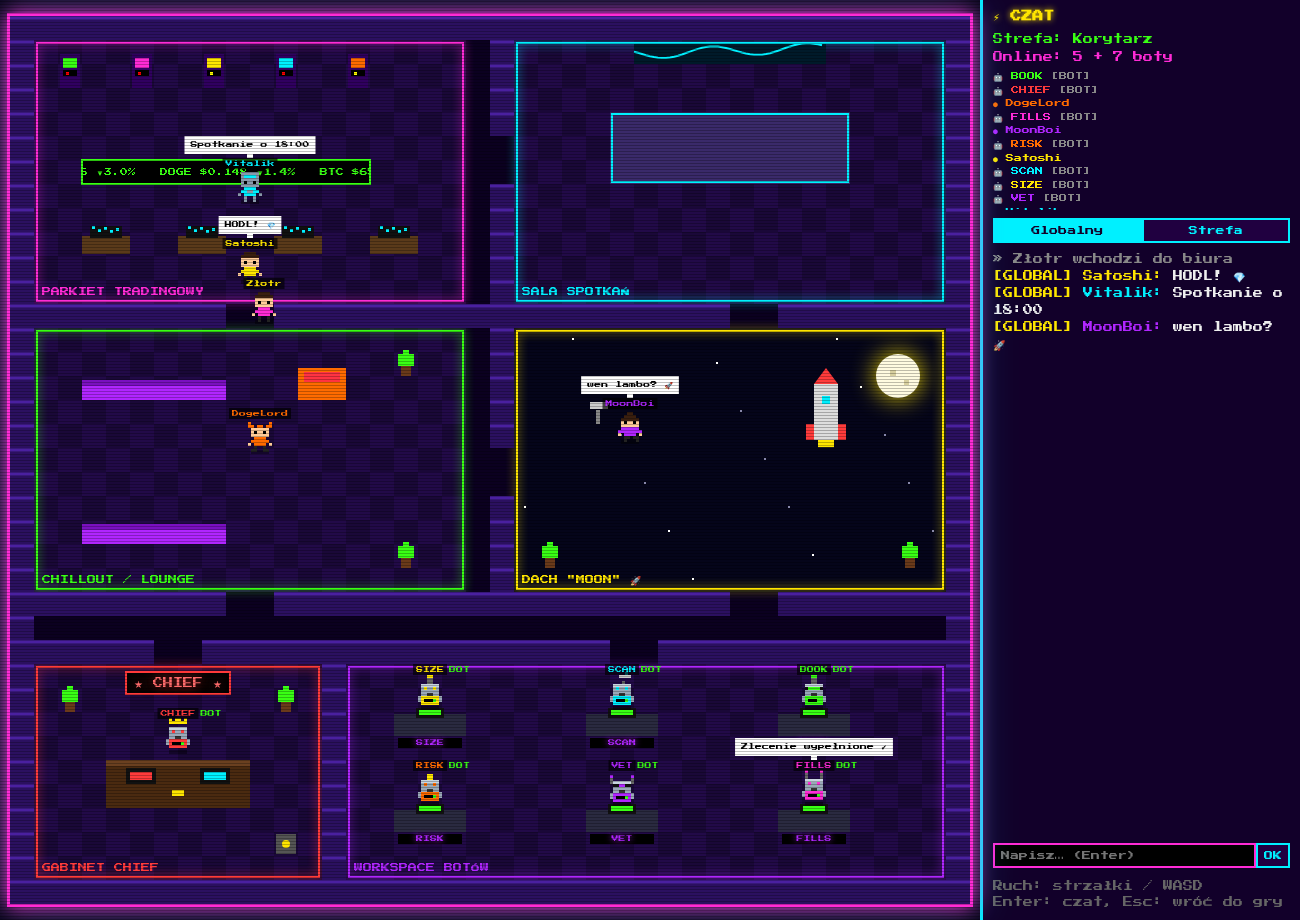
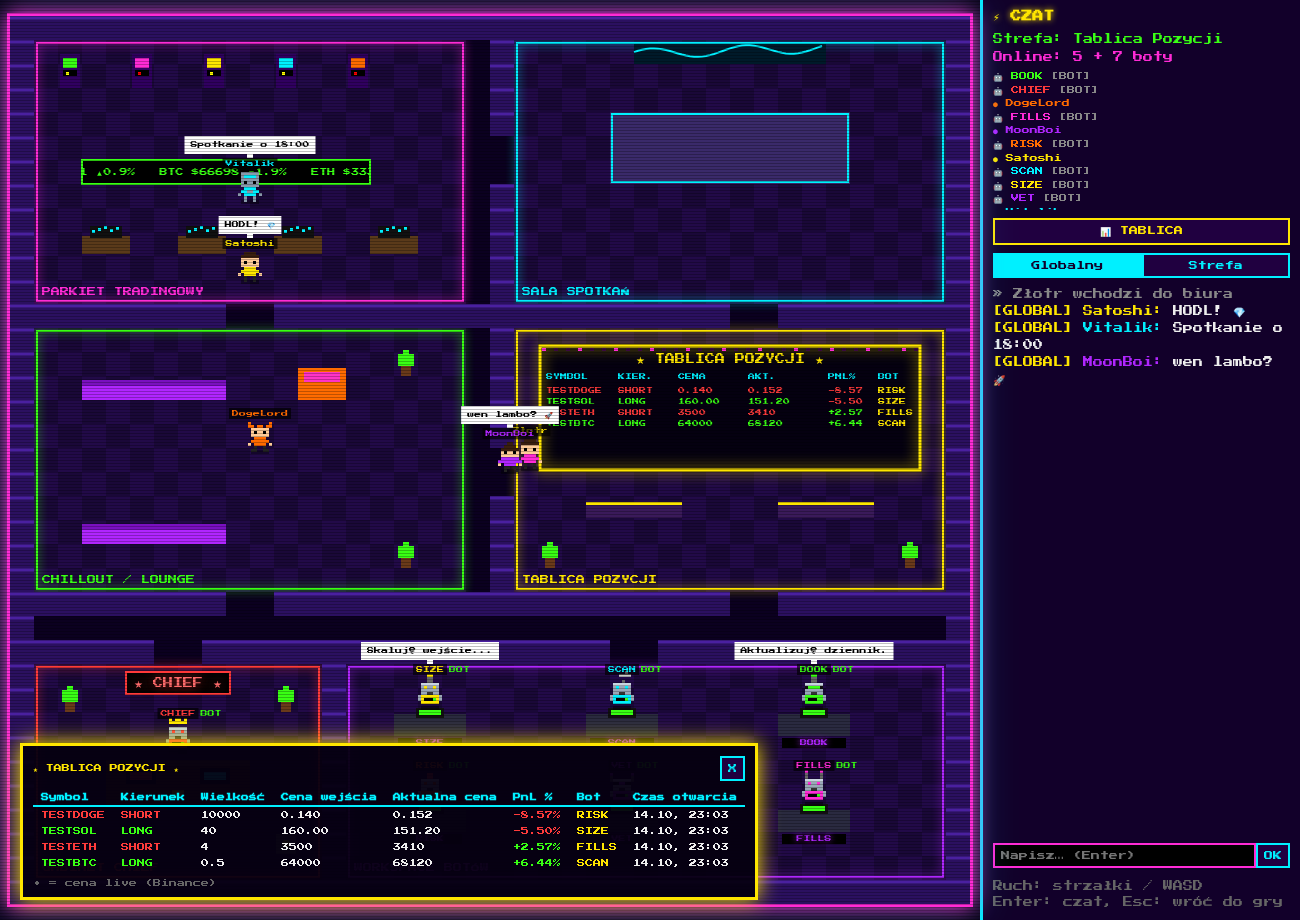
Tablica Pozycji zamiast Moon + API dla botów, live ceny, persystencja

diff --git a/public/game.js b/public/game.js
@@ -68,11 +68,9 @@ function update(dt){const p=players[me];if(!p)return;const sp=140*dt;let dx=0,dy
 const prices={BTC:68000,ETH:3400,SOL:150,DOGE:0.15};
 function drawMap(t){ctx.fillStyle='#0b0020';ctx.fillRect(0,0,cv.width,cv.height);
  for(const z of ZONES){for(let y=z.y;y<z.y+z.h;y++)for(let x=z.x;x<z.x+z.w;x++){
-   if(z.id=='moon'){ctx.fillStyle='#05051a';ctx.fillRect(x*T,y*T,T,T);if((x*7+y*13)%11==0){ctx.fillStyle=(Math.sin(t/300+x)>0)?'#fff':'#88a';ctx.fillRect(x*T+10,y*T+10,2,2);}}
-   else{ctx.fillStyle=(x+y)%2?'#1a0838':'#220a48';ctx.fillRect(x*T,y*T,T,T);}}
+   ctx.fillStyle=(x+y)%2?'#1a0838':'#220a48';ctx.fillRect(x*T,y*T,T,T);}
   ctx.strokeStyle=z.color;ctx.lineWidth=2;ctx.shadowColor=z.color;ctx.shadowBlur=10;ctx.strokeRect(z.x*T+3,z.y*T+3,z.w*T-6,z.h*T-6);ctx.shadowBlur=0;
   ctx.fillStyle=z.color;ctx.font='9px "Press Start 2P"';ctx.fillText(z.name.toUpperCase(),z.x*T+8,(z.y+z.h)*T-8);}
- if(true){ctx.fillStyle='#fffbe0';ctx.shadowColor='#ffe600';ctx.shadowBlur=25;ctx.beginPath();ctx.arc(37*T,15*T,22,0,7);ctx.fill();ctx.shadowBlur=0;ctx.fillStyle='#d8d0a0';ctx.fillRect(37*T-8,15*T-6,6,6);ctx.fillRect(37*T+6,15*T+4,5,5);}
  for(let y=0;y<H;y++)for(let x=0;x<W;x++)if(MAP.solid[y][x]&&!furniture.some(f=>x>=f.x&&x<f.x+f.w&&y>=f.y&&y<f.y+f.h)){ctx.fillStyle='#2b1060';ctx.fillRect(x*T,y*T,T,T);ctx.fillStyle='#4a20a0';ctx.fillRect(x*T,y*T,T,4);}
  for(const f of furniture){const X=f.x*T,Y=f.y*T,w=f.w*T,h=f.h*T;
   switch(f.type){
@@ -88,14 +86,36 @@ function drawMap(t){ctx.fillStyle='#0b0020';ctx.fillRect(0,0,cv.width,cv.height)
   case 'sofa':ctx.fillStyle='#b026ff';ctx.fillRect(X,Y+4,w,h-4);ctx.fillStyle='#7a10c0';ctx.fillRect(X,Y+4,w,6);break;
   case 'plant':ctx.fillStyle='#6a3a1a';ctx.fillRect(X+7,Y+14,10,10);ctx.fillStyle='#39ff14';ctx.fillRect(X+4,Y+2,16,12);ctx.fillRect(X+9,Y-2,6,4);break;
   case 'jukebox':ctx.fillStyle='#ff6b00';ctx.fillRect(X,Y-8,w,h+8);ctx.fillStyle=`hsl(${t/10%360},100%,60%)`;ctx.fillRect(X+6,Y-4,w-12,10);break;
-  case 'rocket':ctx.fillStyle='#ddd';ctx.fillRect(X+12,Y+8,24,h-16);ctx.fillStyle='#ff3b3b';ctx.beginPath();ctx.moveTo(X+12,Y+8);ctx.lineTo(X+24,Y-8);ctx.lineTo(X+36,Y+8);ctx.fill();
    ctx.fillRect(X+4,Y+h-24,8,16);ctx.fillRect(X+36,Y+h-24,8,16);ctx.fillStyle='#00f0ff';ctx.fillRect(X+20,Y+20,8,8);ctx.fillStyle=Math.random()>.5?'#ffe600':'#ff6b00';ctx.fillRect(X+16,Y+h-8,16,6+Math.random()*6);break;
   case 'bigdesk':ctx.fillStyle='#4a2a10';ctx.fillRect(X,Y,w,h);ctx.fillStyle='#6a4020';ctx.fillRect(X,Y,w,6);ctx.fillStyle='#111';ctx.fillRect(X+20,Y+8,30,16);ctx.fillRect(X+w-50,Y+8,30,16);
    ctx.fillStyle='#ff3b3b';ctx.fillRect(X+24,Y+12,22,8);ctx.fillStyle='#00f0ff';ctx.fillRect(X+w-46,Y+12,22,8);ctx.fillStyle='#ffe600';ctx.fillRect(X+w/2-6,Y+30,12,6);break;
   case 'safe':ctx.fillStyle='#555';ctx.fillRect(X+2,Y+2,20,20);ctx.fillStyle='#ffe600';ctx.beginPath();ctx.arc(X+12,Y+12,4,0,7);ctx.fill();break;
   case 'botdesk':ctx.fillStyle='#2a2a40';ctx.fillRect(X,Y+2,w,h-2);ctx.fillStyle='#111';ctx.fillRect(X+w/2-14,Y-4,28,10);ctx.fillStyle=(t/400+f.x|0)%2?'#39ff14':'#00f0ff';ctx.fillRect(X+w/2-11,Y-2,22,5);
    ctx.font='7px "Press Start 2P"';ctx.fillStyle='#000';ctx.fillRect(X+4,Y+h+2,w-8,10);ctx.fillStyle='#b026ff';ctx.shadowColor='#b026ff';ctx.shadowBlur=6;const lw=ctx.measureText(f.label).width;ctx.fillText(f.label,X+w/2-lw/2,Y+h+10);ctx.shadowBlur=0;break;
-  case 'telescope':ctx.fillStyle='#888';ctx.fillRect(X+10,Y+10,4,14);ctx.fillStyle='#ccc';ctx.fillRect(X+4,Y+2,18,7);break;}}}
+  case 'bench':ctx.fillStyle='#3a1a5a';ctx.fillRect(X,Y+6,w,h-8);ctx.fillStyle='#ffe600';ctx.fillRect(X,Y+6,w,3);break;
+  case 'scoreboard':drawScoreboard(X,Y,w,h,t);break;}}}
+function fmtP(v){v=+v;return v>=1000?v.toFixed(0):v>=1?v.toFixed(2):v.toPrecision(3);}
+function pnl(p){const c=p.price??p.entry;return (c-p.entry)/p.entry*100*(p.side=='LONG'?1:-1);}
+function drawScoreboard(X,Y,w,h,t){ctx.fillStyle='#050010';ctx.fillRect(X,Y-8,w,h+8);ctx.strokeStyle='#ffe600';ctx.lineWidth=3;ctx.shadowColor='#ffe600';ctx.shadowBlur=(t/700|0)%5?14:4;ctx.strokeRect(X+2,Y-6,w-4,h+4);ctx.shadowBlur=0;
+ for(let i=0;i<w;i+=12){ctx.fillStyle=((i/12+(t/200|0))%3==0)?'#ff2bd6':'#3a0a40';ctx.fillRect(X+i+4,Y-4,4,3);}
+ ctx.font='10px "Press Start 2P"';ctx.fillStyle='#ffe600';const tt='★ TABLICA POZYCJI ★';ctx.fillText(tt,X+w/2-ctx.measureText(tt).width/2,Y+12);
+ ctx.font='7px "Press Start 2P"';ctx.fillStyle='#00f0ff';const cols=[8,80,140,210,290,340];['SYMBOL','KIER.','CENA','AKT.','PNL%','BOT'].forEach((c,i)=>ctx.fillText(c,X+cols[i],Y+28));
+ const ps=Object.values(positions);if(!ps.length){ctx.fillStyle=(t/600|0)%2?'#888':'#555';ctx.fillText('BRAK OTWARTYCH POZYCJI - INSERT COIN',X+20,Y+60);return;}
+ ps.sort((a,b)=>b.openedAt-a.openedAt).slice(0,7).forEach((p,i)=>{const yy=Y+42+i*11,pl=pnl(p);ctx.fillStyle=p.side=='LONG'?'#39ff14':'#ff3b3b';
+  [p.symbol,p.side,fmtP(p.entry),fmtP(p.price??p.entry),(pl>=0?'+':'')+pl.toFixed(2),p.bot].forEach((v,j)=>{if(j==4)ctx.fillStyle=pl>=0?'#39ff14':'#ff3b3b';if(j==5)ctx.fillStyle='#ffe600';ctx.fillText(String(v),X+cols[j],yy);});});
+ if(ps.length>7){ctx.fillStyle='#888';ctx.fillText('+'+(ps.length-7)+' więcej - przycisk TABLICA',X+8,Y+h-2);}}
+// ---- positions state + HTML panel ----
+let positions={},panelAuto=true,lastZone=null;
+socket.on('positions',list=>{positions={};for(const p of list)positions[p.id]=p;renderTable();});
+socket.on('position',p=>{positions[p.id]=p;renderTable();});
+socket.on('positionClosed',id=>{delete positions[id];renderTable();});
+const panel=document.getElementById('board');
+function renderTable(){const tb=document.getElementById('btbody');if(!tb)return;tb.innerHTML='';const ps=Object.values(positions).sort((a,b)=>b.openedAt-a.openedAt);
+ if(!ps.length){tb.innerHTML='<tr><td colspan="8" style="color:#888;text-align:center">Brak otwartych pozycji</td></tr>';return;}
+ for(const p of ps){const tr=document.createElement('tr');const pl=pnl(p);tr.className=p.side=='LONG'?'long':'short';
+  [p.symbol,p.side,p.size,fmtP(p.entry),fmtP(p.price??p.entry)+(p.priceSource=='live'?' •':''),(pl>=0?'+':'')+pl.toFixed(2)+'%',p.bot,new Date(p.openedAt).toLocaleString('pl-PL',{hour:'2-digit',minute:'2-digit',day:'2-digit',month:'2-digit'})]
+  .forEach((v,i)=>{const td=document.createElement('td');td.textContent=v;if(i==5)td.style.color=pl>=0?'#39ff14':'#ff3b3b';if(i==6)td.style.color='#ffe600';if(p.note&&i==0)td.title=p.note;tr.appendChild(td);});tb.appendChild(tr);}}
+document.getElementById('tb').onclick=()=>panel.classList.toggle('show');document.getElementById('bclose').onclick=()=>{panel.classList.remove('show');};
 function drawPlate(t){const z=ZONES.find(z=>z.id=='chief');const x=z.x*T+z.w*T/2,y=z.y*T+22;ctx.font='10px "Press Start 2P"';const txt='★ CHIEF ★',w=ctx.measureText(txt).width;
  ctx.fillStyle='#000';ctx.fillRect(x-w/2-8,y-14,w+16,22);ctx.strokeStyle='#ff3b3b';ctx.lineWidth=2;ctx.strokeRect(x-w/2-8,y-14,w+16,22);ctx.shadowColor='#ff3b3b';ctx.shadowBlur=(t/500|0)%6?14:2;ctx.fillStyle='#ff6b6b';ctx.fillText(txt,x-w/2,y+2);ctx.shadowBlur=0;}
 function drawPlayer(p,t){p.rx+=(p.x-p.rx)*.3;p.ry+=(p.y-p.ry)*.3;const x=Math.round(p.rx)-12,y=Math.round(p.ry)-24;
@@ -107,5 +127,5 @@ function drawPlayer(p,t){p.rx+=(p.x-p.rx)*.3;p.ry+=(p.y-p.ry)*.3;const x=Math.ro
 let last=performance.now();
 function loop(t){const dt=Math.min(.05,(t-last)/1000);last=t;update(dt);drawMap(t);drawPlate(t);
  Object.values(players).sort((a,b)=>a.ry-b.ry).forEach(p=>drawPlayer(p,t));
- const p=players[me];if(p)document.getElementById('zone').textContent='Strefa: '+ZN[zoneAt(p.x,p.y)];requestAnimationFrame(loop);}
+ const p=players[me];if(p){const z=zoneAt(p.x,p.y);document.getElementById('zone').textContent='Strefa: '+ZN[z];if(z!=lastZone){if(z=='board')panel.classList.add('show');else if(lastZone=='board')panel.classList.remove('show');lastZone=z;}}requestAnimationFrame(loop);}
 requestAnimationFrame(loop);

diff --git a/server.js b/server.js
@@ -1,6 +1,7 @@
 const express=require('express'),http=require('http'),{Server}=require('socket.io'),path=require('path');
 const MAP=require('./public/map.js');
 const app=express(),srv=http.createServer(app),io=new Server(srv);
+app.use(express.json({limit:'20kb'}));
 app.use(express.static(path.join(__dirname,'public')));
 app.get('/health',(q,r)=>r.json({ok:true,players:Object.values(players).filter(p=>!p.bot).length,bots:Object.values(players).filter(p=>p.bot).length}));
 const players={};const COLORS=['#ff2bd6','#00f0ff','#39ff14','#ffe600','#ff6b00','#b026ff','#ffffff','#ff3b3b'];
@@ -15,7 +16,49 @@ const BOT_CFG={CHIEF:{color:'#ff3b3b',lines:['Koordynuję zespół...','Odprawa 
  FILLS:{color:'#ff2bd6',lines:['Realizuję zlecenia...','Fill po 68 012 $','Slippage minimalny.','Zlecenie wypełnione ✔']}};
 for(const b of MAP.BOT_DESKS){const c=BOT_CFG[b.name];players['bot-'+b.name]={id:'bot-'+b.name,name:b.name,color:c.color,sprite:0,bot:true,x:b.x,y:b.y,dir:'down',zone:MAP.zoneAt(b.x,b.y)};}
 setInterval(()=>{const ids=Object.keys(BOT_CFG);const n=ids[Math.random()*ids.length|0];const l=BOT_CFG[n].lines;io.emit('bubble',{id:'bot-'+n,text:l[Math.random()*l.length|0]});},4000);
+// ---- Tablica Pozycji: API dla botów ----
+const fs=require('fs'),crypto=require('crypto');
+const POS_FILE=process.env.POSITIONS_FILE||path.join(__dirname,'positions.json'),TOKEN_FILE=path.join(__dirname,'.bot-token');
+let BOT_TOKEN=process.env.BOT_API_TOKEN;
+if(!BOT_TOKEN){try{BOT_TOKEN=fs.readFileSync(TOKEN_FILE,'utf8').trim();}catch{}
+  if(!BOT_TOKEN){BOT_TOKEN=crypto.randomBytes(24).toString('hex');fs.writeFileSync(TOKEN_FILE,BOT_TOKEN+'\n',{mode:0o600});}
+  console.log('BOT_API_TOKEN nie ustawiony - token zapisany w pliku '+TOKEN_FILE);}
+let positions={};try{positions=JSON.parse(fs.readFileSync(POS_FILE,'utf8'))||{};}catch{}
+const save=()=>{try{fs.writeFileSync(POS_FILE+'.tmp',JSON.stringify(positions,null,1));fs.renameSync(POS_FILE+'.tmp',POS_FILE);}catch(e){console.error('Zapis positions.json nieudany:',e.message);}};
+const BOT_NAMES=Object.keys(BOT_CFG);
+function auth(q,r,n){const h=q.get('authorization')||'';const t=h.startsWith('Bearer ')?h.slice(7):'';
+  const a=Buffer.from(t),b=Buffer.from(BOT_TOKEN);if(a.length!==b.length||!crypto.timingSafeEqual(a,b))return r.status(401).json({error:'Brak autoryzacji'});n();}
+const num=v=>typeof v==='number'?v:(typeof v==='string'&&v.trim()!==''?Number(v):NaN);
+const pos=v=>{const x=num(v);return isFinite(x)&&x>0&&x<1e12?x:null;};
+function botSay(bot,text){io.emit('bubble',{id:'bot-'+bot,text});io.emit('chat',{system:true,text:`🤖 ${bot}: ${text}`,scope:'global',ts:Date.now()});}
+app.get('/api/positions',(q,r)=>r.json(Object.values(positions)));
+app.post('/api/positions',auth,(q,r)=>{const b=q.body||{};const e=[];
+  const bot=String(b.bot||'').toUpperCase();if(!BOT_NAMES.includes(bot))e.push('bot: jeden z '+BOT_NAMES.join(','));
+  const symbol=String(b.symbol||'').toUpperCase();if(!/^[A-Z0-9]{2,20}$/.test(symbol))e.push('symbol: 2-20 znaków A-Z0-9');
+  const side=String(b.side||'').toUpperCase();if(!['LONG','SHORT'].includes(side))e.push('side: LONG lub SHORT');
+  const size=pos(b.size),entry=pos(b.entry);if(size==null)e.push('size: liczba > 0');if(entry==null)e.push('entry: liczba > 0');
+  const price=b.price==null?null:pos(b.price);if(b.price!=null&&price==null)e.push('price: liczba > 0');
+  if(b.id!=null&&!/^[A-Za-z0-9_-]{1,40}$/.test(String(b.id)))e.push('id: 1-40 znaków A-Za-z0-9_-');
+  if(e.length)return r.status(400).json({error:'Błędne dane',details:e});
+  const id=b.id!=null?String(b.id):crypto.randomBytes(6).toString('hex');const old=positions[id];
+  const p={id,bot,symbol,side,size,entry,price:price??old?.price??null,priceSource:price!=null?'bot':(old?.priceSource||null),note:b.note?String(b.note).replace(/[<>]/g,'').slice(0,140):(old?.note||''),openedAt:old?.openedAt||Date.now(),updatedAt:Date.now()};
+  positions[id]=p;save();io.emit('position',p);
+  if(!old)botSay(bot,`Otwieram ${side} ${symbol} @ ${entry}`);r.status(old?200:201).json(p);});
+app.patch('/api/positions/:id',auth,(q,r)=>{const p=positions[q.params.id];if(!p)return r.status(404).json({error:'Nie znaleziono pozycji'});const b=q.body||{};const e=[];
+  if(b.price!=null&&pos(b.price)==null)e.push('price: liczba > 0');if(b.size!=null&&pos(b.size)==null)e.push('size: liczba > 0');
+  if(b.price==null&&b.size==null&&b.note==null)e.push('podaj price, size lub note');if(e.length)return r.status(400).json({error:'Błędne dane',details:e});
+  if(b.price!=null){p.price=pos(b.price);p.priceSource='bot';}if(b.size!=null)p.size=pos(b.size);if(b.note!=null)p.note=String(b.note).replace(/[<>]/g,'').slice(0,140);
+  p.updatedAt=Date.now();save();io.emit('position',p);r.json(p);});
+function close(q,r){const p=positions[q.params.id];if(!p)return r.status(404).json({error:'Nie znaleziono pozycji'});delete positions[p.id];save();io.emit('positionClosed',p.id);
+  const c=p.price??p.entry,pl=(c-p.entry)/p.entry*100*(p.side==='LONG'?1:-1);botSay(p.bot,`Zamykam ${p.side} ${p.symbol} (${pl>=0?'+':''}${pl.toFixed(2)}%)`);r.json({closed:true,position:p,pnlPct:+pl.toFixed(4)});}
+app.delete('/api/positions/:id',auth,close);app.post('/api/positions/:id/close',auth,close);
+// live prices from Binance public ticker (every 30s); falls back to bot price
+async function refreshPrices(){const ps=Object.values(positions);if(!ps.length||process.env.LIVE_PRICES==='0')return;
+  try{const res=await fetch('https://api.binance.com/api/v3/ticker/price',{signal:AbortSignal.timeout(8000)});if(!res.ok)return;const m={};for(const t of await res.json())m[t.symbol]=+t.price;
+    for(const p of ps){const v=m[p.symbol]??m[p.symbol+'USDT'];if(v&&p.priceSource!=='bot-locked'){if(p.price!==v){p.price=v;p.priceSource='live';io.emit('position',p);}}}save();}catch{}}
+setInterval(refreshPrices,30000);setTimeout(refreshPrices,3000);
 io.on('connection',s=>{
+  s.emit('positions',Object.values(positions));
   s.on('join',d=>{
     const p={id:s.id,name:clean(d&&d.name,16)||'Anon',color:COLORS.includes(d&&d.color)?d.color:COLORS[0],sprite:Math.max(0,Math.min(3,(d&&d.sprite)|0)),x:MAP.SPAWN.x,y:MAP.SPAWN.y,dir:'down'};
     p.zone=MAP.zoneAt(p.x,p.y);players[s.id]=p;

diff --git a/test.js b/test.js
@@ -4,9 +4,9 @@ const wait=ms=>new Promise(r=>setTimeout(r,ms));
 for(const [n,s] of [['a',a],['b',b]]){s.onAny((e,d)=>got[n].push([e,d]));}
 a.emit('join',{name:'Alicja',color:'#00f0ff',sprite:1});await wait(200);b.emit('join',{name:'Bartek',color:'#39ff14',sprite:2});await wait(300);
 chk(got.a.some(([e,d])=>e=='playerJoined'&&d.name=='Bartek'),'A widzi dołączenie B');
-const init=got.a.find(([e])=>e=='init')[1];const bots=Object.values(init.players).filter(p=>p.bot);
+const M0=require('./public/map.js');const init=got.a.find(([e])=>e=='init')[1];const bots=Object.values(init.players).filter(p=>p.bot);
 chk(bots.length==7&&['CHIEF','SIZE','SCAN','BOOK','RISK','VET','FILLS'].every(n=>bots.some(b=>b.name==n)),'init zawiera 7 botów NPC oznaczonych bot:true');
-chk(bots.find(b=>b.name=='CHIEF').zone=='chief'&&bots.filter(b=>b.zone=='bots').length==6,'CHIEF w gabinecie, 6 botów w Workspace Botów');
+chk(M0.zoneAt(30*24,16*24)=='board','Strefa Tablica Pozycji (board) zamiast Moon');chk(bots.find(b=>b.name=='CHIEF').zone=='chief'&&bots.filter(b=>b.zone=='bots').length==6,'CHIEF w gabinecie, 6 botów w Workspace Botów');
 const M=require('./public/map.js');chk(M.zoneAt(7*24,30*24)=='chief'&&M.zoneAt(20*24,30*24)=='bots'&&M.zoneAt(10*24,5*24)=='trading','Nowe strefy rozpoznawane przez zoneAt');
 a.emit('move',{x:250,y:300,dir:'right'});await wait(200);
 chk(got.b.some(([e,d])=>e=='playerMoved'&&d.id==a.id&&d.x==250),'B dostaje ruch A');
@@ -18,4 +18,22 @@ chk(got.a.some(([e,d])=>e=='chat'&&d.text=='tajne'&&d.zone=='trading'),'A dostaj
 chk(!got.b.some(([e,d])=>e=='chat'&&d.text=='tajne'),'B (inna strefa) NIE dostaje wiadomości strefowej');
 await wait(4300);chk(got.a.some(([e,d])=>e=='bubble'&&String(d.id).startsWith('bot-')&&d.text),'Boty wysyłają dymki statusu');
 chk(!got.a.some(([e,d])=>e=='playerMoved'&&String(d.id).startsWith('bot-')),'Boty nie generują zdarzeń ruchu');
+// ---- API Tablicy Pozycji ----
+const TOK=process.env.BOT_API_TOKEN||require('fs').readFileSync(__dirname+'/.bot-token','utf8').trim();
+const api=(m,u,body,tok=TOK)=>fetch(U+u,{method:m,headers:{'content-type':'application/json',...(tok?{authorization:'Bearer '+tok}:{})},body:body?JSON.stringify(body):undefined}).then(async r=>({s:r.status,j:await r.json().catch(()=>null)}));
+let r=await api('POST','/api/positions',{bot:'SCAN',symbol:'TESTX',side:'LONG',size:1,entry:100},null);chk(r.s==401,'POST bez tokenu -> 401');
+r=await api('POST','/api/positions',{bot:'SCAN',symbol:'TESTX',side:'LONG',size:1,entry:100},'zly');chk(r.s==401,'POST ze złym tokenem -> 401');
+r=await api('POST','/api/positions',{bot:'NIKT',symbol:'x',side:'UP',size:-1,entry:'abc'});chk(r.s==400&&r.j.details.length>=4,'Walidacja danych -> 400');
+const n0=got.b.length;r=await api('POST','/api/positions',{id:'test-1',bot:'SCAN',symbol:'TESTX',side:'LONG',size:2,entry:100,price:110,note:'test'});
+chk(r.s==201&&r.j.id=='test-1'&&r.j.side=='LONG','Otwarcie pozycji -> 201');await wait(200);
+chk(got.b.slice(n0).some(([e,d])=>e=='position'&&d.id=='test-1'),'Broadcast otwarcia przez Socket.IO');
+chk(got.b.slice(n0).some(([e,d])=>e=='bubble'&&d.id=='bot-SCAN'&&/Otwieram/.test(d.text))&&got.b.slice(n0).some(([e,d])=>e=='chat'&&d.system&&/SCAN/.test(d.text)),'Bot SCAN: dymek + wiadomość systemowa');
+r=await api('GET','/api/positions',null,null);chk(r.s==200&&r.j.some(p=>p.id=='test-1'),'GET /api/positions (publiczny)');
+r=await api('PATCH','/api/positions/test-1',{price:120});chk(r.s==200&&r.j.price==120,'PATCH aktualizuje cenę');
+r=await api('PATCH','/api/positions/test-1',{price:120},null);chk(r.s==401,'PATCH bez tokenu -> 401');
+chk(JSON.parse(require('fs').readFileSync(__dirname+'/positions.json','utf8')+'')['test-1']||(await wait(400),JSON.parse(require('fs').readFileSync(__dirname+'/positions.json','utf8'))['test-1']),'Zapis do positions.json');
+const n1=got.b.length;r=await api('POST','/api/positions/test-1/close');chk(r.s==200&&r.j.closed&&Math.abs(r.j.pnlPct-20)<1e-9,'Zamknięcie (POST /close), PnL +20%');await wait(200);
+chk(got.b.slice(n1).some(([e,d])=>e=='positionClosed'&&d=='test-1'),'Broadcast zamknięcia');
+await api('POST','/api/positions',{id:'test-2',bot:'RISK',symbol:'TESTY',side:'SHORT',size:1,entry:50,price:45});r=await api('DELETE','/api/positions/test-2');chk(r.s==200&&Math.abs(r.j.pnlPct-10)<1e-9,'DELETE zamyka SHORT, PnL +10%');
+r=await api('DELETE','/api/positions/test-2');chk(r.s==404,'Ponowne zamknięcie -> 404');
 b.disconnect();await wait(200);chk(got.a.some(([e])=>e=='playerLeft'),'A widzi wyjście B');a.disconnect();process.exit(ok?0:1);})();

diff --git a/public/index.html b/public/index.html
@@ -20,6 +20,9 @@ button.on{background:#00f0ff;color:#12002a}
 #login input{font-family:inherit;width:100%;padding:8px;margin:10px 0;background:#000;color:#39ff14;border:2px solid #00f0ff}
 #colors,#sprites{display:flex;gap:6px;justify-content:center;margin:8px 0}.sw{width:28px;height:28px;border:2px solid #333;cursor:pointer}.sw.on{border-color:#fff;box-shadow:0 0 8px #fff}
 #sprites canvas{border:2px solid #333;box-shadow:none;cursor:pointer}#sprites canvas.on{border-color:#fff}
+#board{display:none;position:fixed;left:20px;bottom:20px;max-width:calc(100vw - 380px);max-height:45vh;overflow:auto;background:#050010f2;border:3px solid #ffe600;box-shadow:0 0 20px #ffe600;padding:10px;z-index:5;font-size:8px}
+#board.show{display:block}#board .bh{color:#ffe600;margin-bottom:8px;display:flex;justify-content:space-between;align-items:center}#board table{border-collapse:collapse;width:100%}
+#board th{color:#00f0ff;text-align:left;padding:4px 8px;border-bottom:2px solid #00f0ff}#board td{padding:4px 8px}#board tr.long td:nth-child(-n+2){color:#39ff14}#board tr.short td:nth-child(-n+2){color:#ff3b3b}
 .blink{animation:b 1s steps(2) infinite}@keyframes b{50%{opacity:0}}
 </style></head><body>
 <div id="login"><div class="box"><h1>ARCADE OFFICE<br><span style="color:#00f0ff">KRYPTO BIURO</span></h1>
@@ -27,8 +30,9 @@ button.on{background:#00f0ff;color:#12002a}
 <p>Kolor awatara:</p><div id="colors"></div><p>Postać:</p><div id="sprites"></div>
 <button id="go" style="margin-top:12px;font-size:12px">▶ WEJDŹ</button><p class="blink" style="color:#ff2bd6;margin-top:14px">WCIŚNIJ START</p></div></div>
 <div id="app"><div id="gamewrap" class="crt"><canvas id="c" width="960" height="888"></canvas></div>
+<div id="board"><div class="bh">★ TABLICA POZYCJI ★ <button id="bclose">X</button></div><table><thead><tr><th>Symbol</th><th>Kierunek</th><th>Wielkość</th><th>Cena wejścia</th><th>Aktualna cena</th><th>PnL %</th><th>Bot</th><th>Czas otwarcia</th></tr></thead><tbody id="btbody"></tbody></table><div style="color:#666;margin-top:8px">• = cena live (Binance)</div></div>
 <div id="side"><h2>⚡ CZAT</h2><div id="zone">Strefa: -</div><div id="online">Online: 0</div><div id="plist"></div>
-<div id="tabs"><button id="tg" class="on">Globalny</button><button id="tz">Strefa</button></div>
+<button id="tb" style="margin:0 10px 8px;color:#ffe600;border-color:#ffe600">📊 TABLICA</button><div id="tabs"><button id="tg" class="on">Globalny</button><button id="tz">Strefa</button></div>
 <div id="log"></div><form id="form"><input id="msg" maxlength="200" placeholder="Napisz… (Enter)" autocomplete="off"><button>OK</button></form>
 <div style="margin:0 10px 10px;color:#666;line-height:1.6">Ruch: strzałki / WASD<br>Enter: czat, Esc: wróć do gry</div></div></div>
 <script src="/socket.io/socket.io.js"></script><script src="map.js"></script><script src="game.js"></script></body></html>

diff --git a/public/map.js b/public/map.js
@@ -5,7 +5,7 @@ const ZONES=[
  {id:'trading',name:'Parkiet Tradingowy',x:1,y:1,w:18,h:11,color:'#ff2bd6'},
  {id:'meeting',name:'Sala Spotkań',x:21,y:1,w:18,h:11,color:'#00f0ff'},
  {id:'lounge',name:'Chillout / Lounge',x:1,y:13,w:18,h:11,color:'#39ff14'},
- {id:'moon',name:'Dach "Moon" 🚀',x:21,y:13,w:18,h:11,color:'#ffe600'},
+ {id:'board',name:'Tablica Pozycji',x:21,y:13,w:18,h:11,color:'#ffe600'},
  {id:'chief',name:'Gabinet CHIEF',x:1,y:27,w:12,h:9,color:'#ff3b3b'},
  {id:'bots',name:'Workspace Botów',x:14,y:27,w:25,h:9,color:'#b026ff'},
 ];
@@ -29,7 +29,7 @@ add('sofa',3,15,6,1); add('sofa',3,21,6,1); add('plant',16,14); add('plant',16,2
 add('bigdesk',4,31,6,2); add('plant',2,28); add('plant',11,28); add('safe',11,34);
 const BOT_DESKS=[];['SIZE','SCAN','BOOK','RISK','VET','FILLS'].forEach((n,i)=>{const x=16+(i%3)*8,y=29+Math.floor(i/3)*4;add('botdesk',x,y,3,1);furniture[furniture.length-1].label=n;BOT_DESKS.push({name:n,x:(x+1.5)*T,y:(y-0.4)*T});});
 BOT_DESKS.unshift({name:'CHIEF',x:7*T,y:30.4*T});
-add('rocket',33,15,2,3); add('telescope',24,16); add('plant',37,22); add('plant',22,22);
+add('scoreboard',22,14,16,5); add('bench',24,20,4,1); add('bench',32,20,4,1); add('plant',37,22); add('plant',22,22);
 function zoneAt(px,py){const tx=px/T,ty=py/T;for(const z of ZONES)if(tx>=z.x&&tx<z.x+z.w&&ty>=z.y&&ty<z.y+z.h)return z.id;return 'korytarz';}
 function blocked(px,py){const r=8;for(const [dx,dy] of [[-r,-r],[r,-r],[-r,r],[r,r]]){const tx=Math.floor((px+dx)/T),ty=Math.floor((py+dy)/T);if(tx<0||ty<0||tx>=W||ty>=H||solid[ty][tx])return true;}return false;}
 const api={BOT_DESKS,T,W,H,ZONES,solid,furniture,zoneAt,blocked,SPAWN:{x:10*T,y:12.5*T}};

diff --git a/screenshot.js b/screenshot.js
@@ -8,6 +8,6 @@ const p=require('puppeteer-core');const {io}=require('socket.io-client');const w
   const steps=[];const go=(tx,ty)=>{while(Math.abs(cx-tx)>1||Math.abs(cy-ty)>1){cx+=Math.sign(tx-cx)*Math.min(20,Math.abs(tx-cx));cy+=Math.sign(ty-cy)*Math.min(20,Math.abs(ty-cy));steps.push([cx,cy]);}};
   go(240,y<300?260:340);if(x>480){go(240,y<300?140:450);go(x,y<300?140:450);}go(x,y);
   for(const [sx,sy] of steps){k.emit('move',{x:sx,y:sy});await wait(15);}}
- await pg.keyboard.down('ArrowRight');await wait(500);await pg.keyboard.up('ArrowRight');
+ await pg.keyboard.down('ArrowDown');await wait(1050);await pg.keyboard.up('ArrowDown');await pg.keyboard.down('ArrowRight');await wait(2700);await pg.keyboard.up('ArrowRight');
  for(const [k,,,t] of ss)if(t)k.emit('chat',{text:t,scope:'global'});await wait(4500);
  await pg.screenshot({path:'screenshot.png'});await br.close();process.exit(0);})();

diff --git a/README.md b/README.md
@@ -2,7 +2,7 @@
 Wirtualne biuro multiplayer w stylu retro pixel-art (Node.js + Express + Socket.IO, klient na canvasie, bez kroku budowania).
 
 ## Strefy
-Parkiet Tradingowy, Sala Spotkań, Chillout / Lounge, Dach „Moon”, **Gabinet CHIEF** oraz **Workspace Botów** (dolne skrzydło, wejście z korytarza). Czat strefowy rozpoznaje wszystkie strefy.
+Parkiet Tradingowy, Sala Spotkań, Chillout / Lounge, **Tablica Pozycji**, **Gabinet CHIEF** oraz **Workspace Botów** (dolne skrzydło, wejście z korytarza). Czat strefowy rozpoznaje wszystkie strefy.
 
 ## Boty NPC
 Serwer wyświetla 7 botów grupy: CHIEF (we własnym gabinecie) oraz SIZE, SCAN, BOOK, RISK, VET, FILLS przy podpisanych biurkach. Każdy ma własny robotyczny sprite, animację w spoczynku i co kilka sekund dymek statusu (zdarzenie `bubble`). Na liście online są oznaczone jako [BOT]. Konfiguracja: `BOT_CFG` w `server.js`, pozycje: `BOT_DESKS` w `public/map.js`.
@@ -30,3 +30,34 @@ Potrzebny hosting z trwałym procesem i WebSocketami (nie serverless typu Vercel
 - Szybki test bez wdrożenia: `npx localtunnel --port 3000` lub `cloudflared tunnel --url http://localhost:3000`.
 
 Stan graczy jest trzymany w pamięci serwera – uruchamiaj jedną instancję (skalowanie wymagałoby adaptera Redis dla Socket.IO).
+
+## Tablica Pozycji
+Strefa z neonową tablicą otwartych pozycji (na mapie) oraz pełną tabelą HTML, która otwiera się automatycznie po wejściu do strefy lub przyciskiem **📊 TABLICA**. LONG – zielony, SHORT – czerwony. Co 30 s serwer pobiera ceny z publicznego API Binance (`SYMBOL` lub `SYMBOLUSDT`); jeśli niedostępne – używana jest cena podana przez bota. Wyłączenie: `LIVE_PRICES=0`. Pozycje zapisywane są w `positions.json` (przetrwają restart, plik w .gitignore).
+
+## API dla botów
+Zapis wymaga nagłówka `Authorization: Bearer <BOT_API_TOKEN>`. Ustaw zmienną `BOT_API_TOKEN` (na Render: Environment). Jeśli jej brak, serwer generuje token przy starcie i zapisuje go do pliku `.bot-token` (w logu jest tylko ścieżka). Dozwolone boty: CHIEF, SIZE, SCAN, BOOK, RISK, VET, FILLS.
+
+| Metoda | Ścieżka | Opis |
+|---|---|---|
+| GET | `/api/positions` | lista otwartych pozycji (publiczna) |
+| POST | `/api/positions` | otwarcie / aktualizacja (z `id`) – `{id?, bot, symbol, side, size, entry, price?, note?}` |
+| PATCH | `/api/positions/:id` | aktualizacja `price`, `size`, `note` |
+| POST | `/api/positions/:id/close` | zamknięcie |
+| DELETE | `/api/positions/:id` | zamknięcie |
+
+    export URL=http://localhost:3000 TOKEN=$(cat .bot-token)
+    # otwarcie
+    curl -X POST $URL/api/positions -H "Authorization: Bearer $TOKEN" -H 'Content-Type: application/json' \
+      -d '{"id":"btc-1","bot":"SCAN","symbol":"BTCUSDT","side":"LONG","size":0.1,"entry":67000,"note":"breakout"}'
+    # aktualizacja ceny/wielkości
+    curl -X PATCH $URL/api/positions/btc-1 -H "Authorization: Bearer $TOKEN" -H 'Content-Type: application/json' -d '{"price":68500}'
+    # zamknięcie
+    curl -X POST $URL/api/positions/btc-1/close -H "Authorization: Bearer $TOKEN"
+    # lista
+    curl $URL/api/positions
+
+Odpowiedzi: 201 (nowa), 200 (OK), 400 (`details` z listą błędów), 401 (brak/zły token), 404 (brak pozycji). Otwarcie i zamknięcie wywołuje dymek nad odpowiednim botem i komunikat systemowy na czacie; zmiany są rozsyłane na żywo (Socket.IO: `positions`, `position`, `positionClosed`).
+
+Uwaga (Render free): dysk jest efemeryczny – `positions.json` znika przy redeployu. Do trwałego zapisu użyj Persistent Disk i `POSITIONS_FILE=/data/positions.json`.
+
+`./ss-positions.sh add|del` – dodaje/usuwa pozycje TEST (tylko do zrzutów ekranu).
